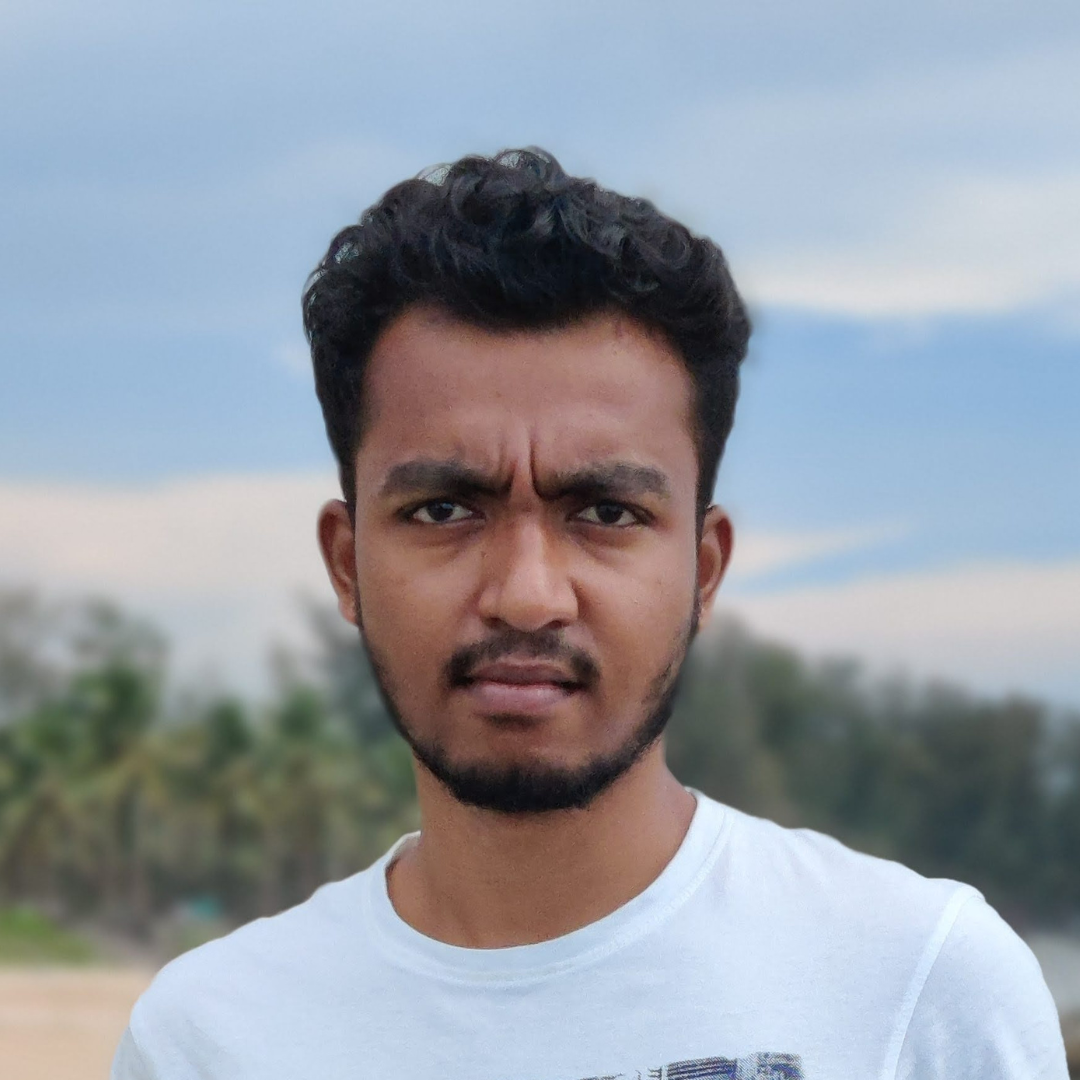
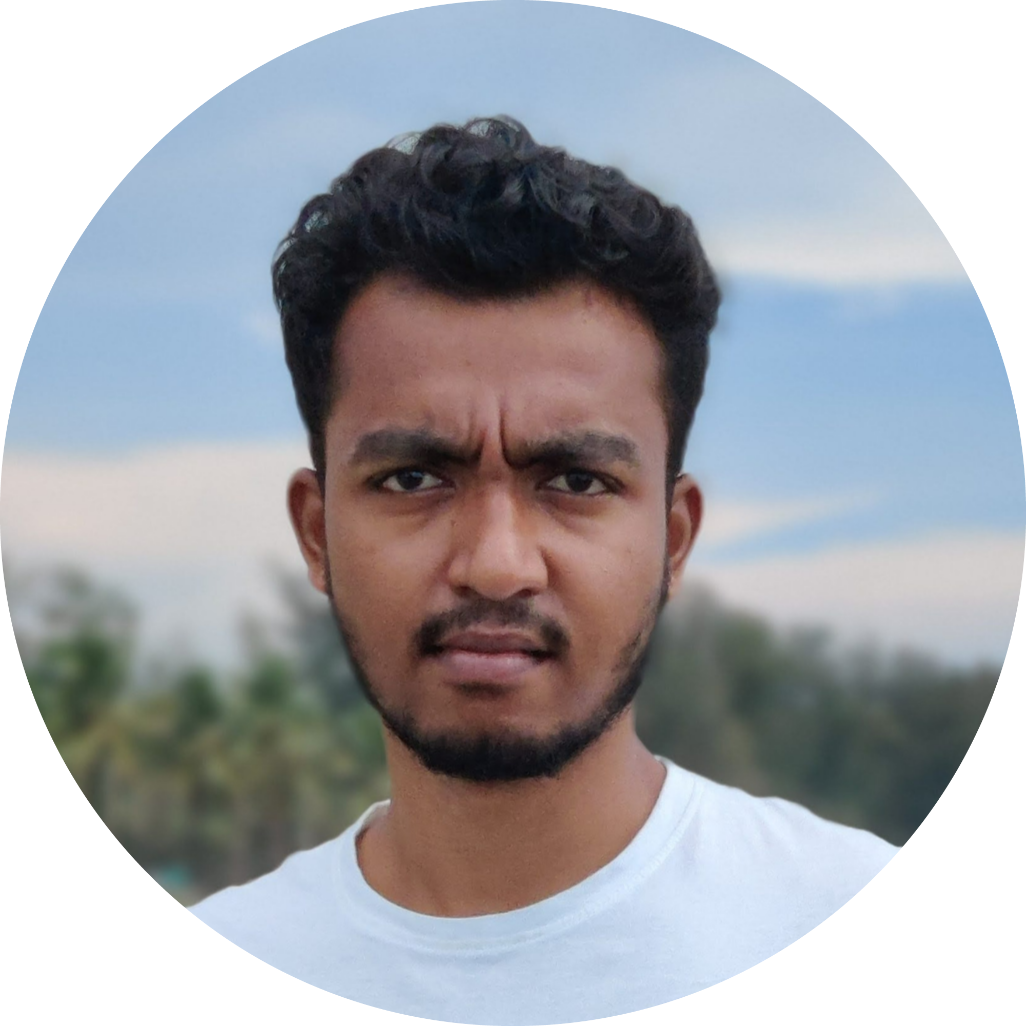
changes made

diff --git a/src/app/main/main.component.html b/src/app/main/main.component.html
@@ -1,6 +1,6 @@
 <section>
   <div class="pt-20">
-    <img class="p-3 rounded-full mx-auto"
+    <img class="p-3 mx-auto"
       ngSrc="./assets/images/profile-picture.webp" alt="" width="284" height="284">
   </div>
   <div class="pt-4">
